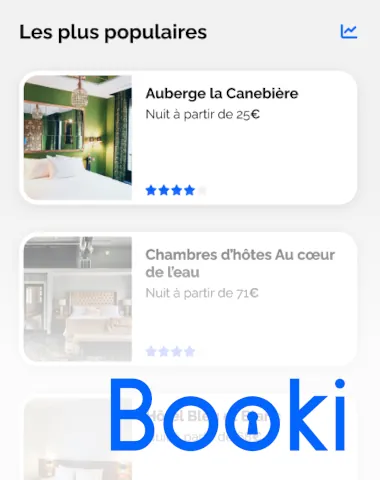
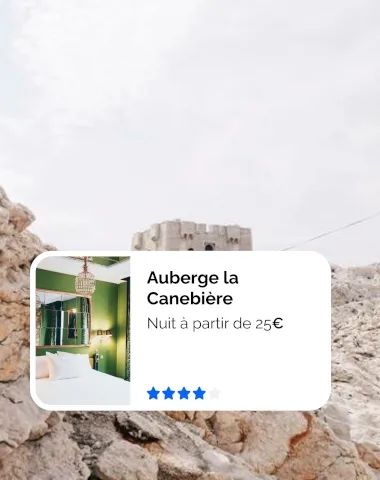
slider images and dragging

diff --git a/src/components/Slider/EmblaCarousel.js b/src/components/Slider/EmblaCarousel.js
@@ -7,10 +7,10 @@ import {
   NextButton,
   usePrevNextButtons,
 } from './EmblaCarouselArrowButtons';
-import imageByIndex from './imageByIndex';
+// import imageByIndex from './imageByIndex';
 
 export default function EmblaCarousel(props) {
-  const { slides, options } = props;
+  const { data, options } = props;
   const [emblaRef, emblaApi] = useEmblaCarousel(options);
 
   const {
@@ -24,21 +24,31 @@ export default function EmblaCarousel(props) {
     <div className={styles.embla}>
       <div className={styles.embla__viewport} ref={emblaRef}>
         <div className={styles.embla__container}>
-          {slides.map((index) => (
-            <div className={styles.embla__slide} key={index}>
+          {data.map((d, index) => (
+            <div className={styles.embla__slide} key={d.id + index}>
+              <Image
+                className={styles.embla__slide__logo}
+                src={d.logo}
+                alt={d.title + ' logo'}
+                height={70}
+                width={230}
+              />
               <Image
                 className={styles.embla__slide__img}
-                src={imageByIndex(index)}
-                alt="Your alt text"
+                src={d.cover}
+                alt={d.title}
+                width={380}
+                height={480}
+                quality={90}
               />
             </div>
           ))}
         </div>
-      </div>
 
-      <div className={styles.embla__buttons}>
-        <PrevButton onClick={onPrevButtonClick} disabled={prevBtnDisabled} />
-        <NextButton onClick={onNextButtonClick} disabled={nextBtnDisabled} />
+        <div className={styles.embla__buttons}>
+          <PrevButton onClick={onPrevButtonClick} disabled={prevBtnDisabled} />
+          <NextButton onClick={onNextButtonClick} disabled={nextBtnDisabled} />
+        </div>
       </div>
     </div>
   );

diff --git a/src/app/layout.js b/src/app/layout.js
@@ -4,6 +4,7 @@ import EmblaCarousel from '../components/Slider/EmblaCarousel';
 
 import Header from '../components/Header/Header';
 import Footer from '../components/Footer/Footer';
+import data from '/json/projets.json';
 
 const abel = Abel({
   subsets: ['latin'],
@@ -12,12 +13,10 @@ const abel = Abel({
 
 export const metadata = {
   title: 'Web developer portfolio - Tiffanie Orsoni',
-  description: "I'm a junior web developer who yearns to learn more",
+  description: "I'm a junior web developer always yearning to learn more",
 };
 
 const OPTIONS = { axis: 'y', loop: true };
-const SLIDE_COUNT = 4;
-const SLIDES = Array.from(Array(SLIDE_COUNT).keys());
 
 export default function RootLayout({ children }) {
   return (
@@ -28,7 +27,7 @@ export default function RootLayout({ children }) {
           {children}
           <aside>
             <h2>Projects</h2>
-            <EmblaCarousel slides={SLIDES} options={OPTIONS} />
+            <EmblaCarousel data={data} options={OPTIONS} />
           </aside>
         </div>
         <Footer />

diff --git a/src/components/Slider/Slider.module.css b/src/components/Slider/Slider.module.css
@@ -1,9 +1,10 @@
 .embla {
-  --slide-spacing: 5%;
-  --slide-size: 50%;
-  --slide-height: 50rem;
+  --slide-spacing: 15px;
+  --slide-size: 55%;
+  --slide-height: 70vh;
   padding: 1.6rem;
   height: 76vh;
+  min-height: 700px;
   position: relative;
 }
 .embla__viewport {
@@ -22,11 +23,19 @@
   flex: 0 0 var(--slide-size);
   min-height: 0;
   padding-top: var(--slide-spacing);
+  text-align: center;
+  position: relative;
 }
 .embla__slide__img {
   display: block;
   height: 100%;
+  width: 100%;
   object-fit: cover;
+}
+.embla__slide__logo {
+  position: absolute;
+  top: 30px;
+  left: 15px;
 }
 .embla__button {
   -webkit-appearance: none;
@@ -38,6 +47,7 @@
   border: 0;
   padding: 0;
   margin: 0;
+  filter: drop-shadow(0 2px 3px black);
 }
 .embla__buttons {
   display: flex;
@@ -50,6 +60,7 @@
   z-index: 999;
   top: 0;
   left: 0;
+  padding: 10px;
 }
 .embla__button {
   z-index: 1;
@@ -62,8 +73,4 @@
 }
 .embla__button:disabled {
   opacity: 0.3;
-}
-.embla__button__svg {
-  width: 100%;
-  height: 100%;
 }

diff --git a/src/app/globals.css b/src/app/globals.css
@@ -40,6 +40,8 @@ aside {
 aside h2 {
   text-align: right;
   font-size: 67px;
+  margin-bottom: 15px;
+  text-transform: uppercase;
 }
 
 a {
